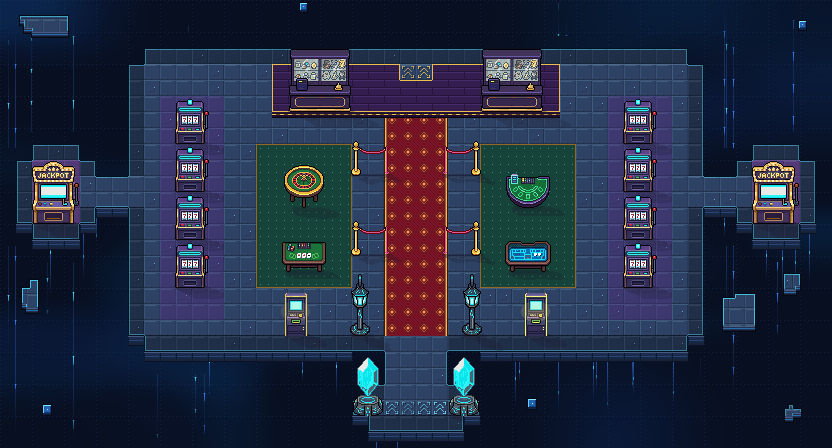
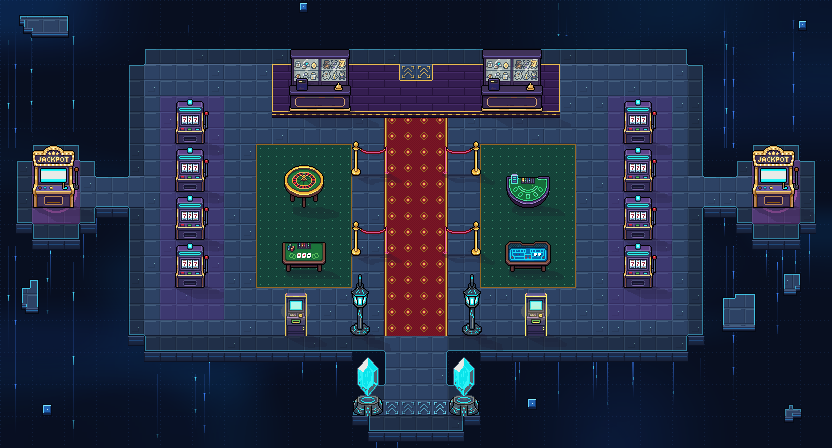
Karte 22: Jackpot-Automaten auf den Inseln eine Kachel hoeher
Claude-Session: https://claude.ai/code/session_01SaoYHKhnro4LFcPJqjaPsq

Changed region(s): [[0.9062, 0.3125, 0.9688, 0.5], [0.0312, 0.3125, 0.0938, 0.5]]

diff --git a/tools/karte22_objekte.py b/tools/karte22_objekte.py
@@ -40,7 +40,7 @@ OBJEKTE = (
     + paar(LAMPE, 56, 20, 'lampe')
     + paar(ATM, 120, 20, 'lampe')
     # Jackpot-Inseln: je ein grosser Jackpot-Automat
-    + paar(JACKPOT, 360, 13, 'automat')
+    + paar(JACKPOT, 360, 12, 'automat')
     # Ankunft: zwei Datenkristalle neben den Pfeilen
     + paar(KRISTALL, 48, 25, 'lampe')
 )
